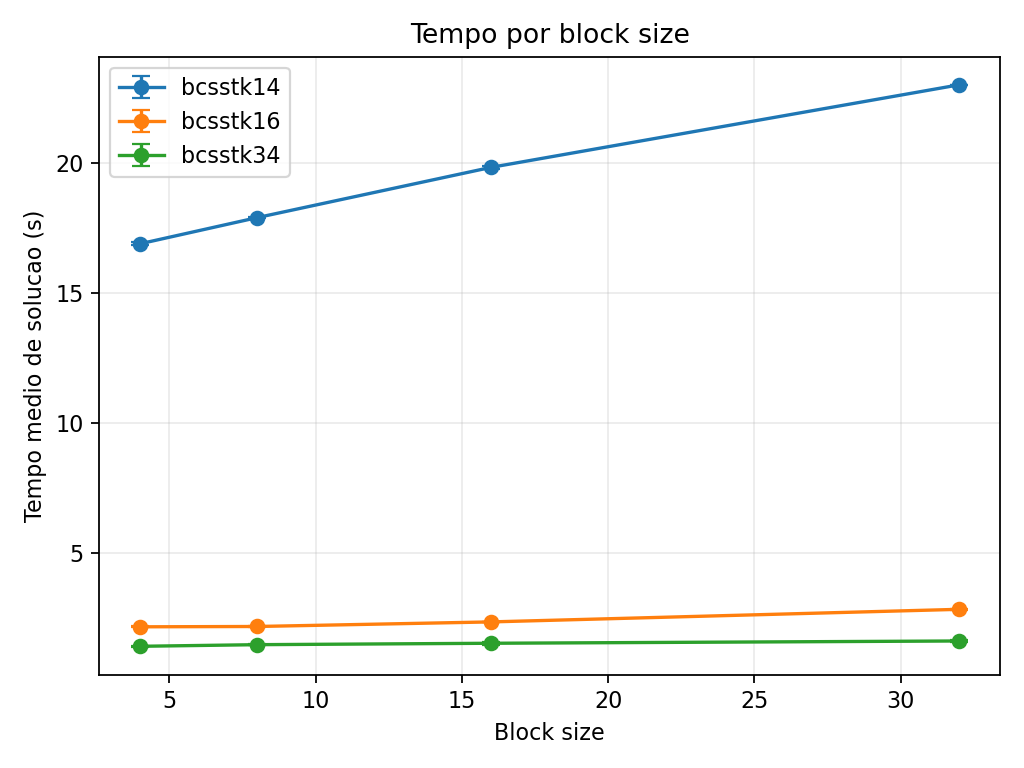
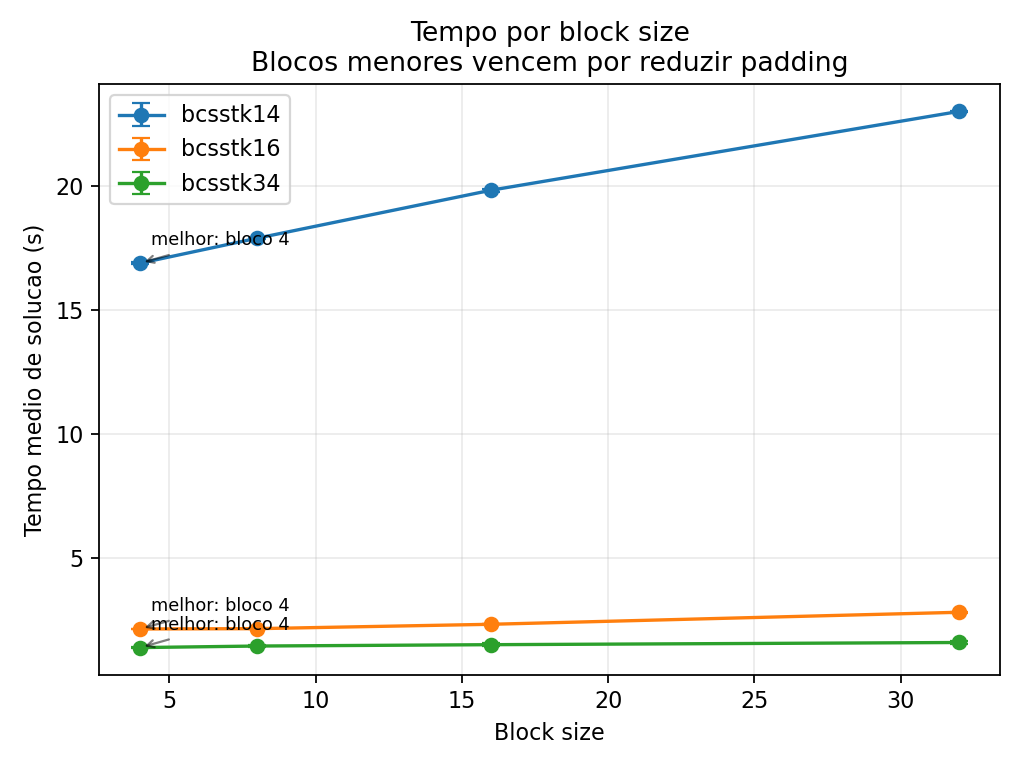
docs: explain experiment results in report

diff --git a/scripts/analyze_cg_results.py b/scripts/analyze_cg_results.py
@@ -68,9 +68,10 @@ with metrics_path.open("w", newline="") as stream:
         writer.writerow({field: (f"{row[field]:.9g}" if isinstance(row[field], float) else row[field]) for field in fields})
 
 base = [row for row in stats if row["family"] == "base"]
+fig, axis = plt.subplots()
 for matrix in sorted({row["matrix"] for row in base}):
     values = sorted((row for row in base if row["matrix"] == matrix), key=lambda row: row["block_size"])
-    plt.errorbar(
+    axis.errorbar(
         [row["block_size"] for row in values],
         [row["solve_mean_s"] for row in values],
         yerr=[row["solve_stddev_s"] for row in values],
@@ -78,34 +79,54 @@ for matrix in sorted({row["matrix"] for row in base}):
         capsize=4,
         label=matrix,
     )
-plt.xlabel("Block size")
-plt.ylabel("Tempo medio de solucao (s)")
-plt.title("Tempo por block size")
-plt.grid(alpha=0.25)
-plt.legend()
-plt.tight_layout()
-plt.savefig(plots_dir / "solve_time_by_block.png", dpi=160)
-plt.close()
+    best = min(values, key=lambda row: row["solve_mean_s"])
+    axis.annotate(
+        f"melhor: bloco {best['block_size']}",
+        (best["block_size"], best["solve_mean_s"]),
+        xytext=(5, 8),
+        textcoords="offset points",
+        fontsize=8,
+        arrowprops={"arrowstyle": "->", "alpha": 0.5},
+    )
+axis.set_xlabel("Block size")
+axis.set_ylabel("Tempo medio de solucao (s)")
+axis.set_title("Tempo por block size\nBlocos menores vencem por reduzir padding")
+axis.grid(alpha=0.25)
+axis.legend()
+fig.tight_layout()
+fig.savefig(plots_dir / "solve_time_by_block.png", dpi=160)
+plt.close(fig)
 
 strong = sorted((row for row in stats if row["family"] == "strong"), key=lambda row: row["mpi_processes"])
-plt.errorbar(
+fig, axis = plt.subplots()
+axis.errorbar(
     [row["mpi_processes"] for row in strong],
     [row["solve_mean_s"] for row in strong],
     yerr=[row["solve_stddev_s"] for row in strong],
     marker="o",
     capsize=4,
 )
-plt.xlabel("Processos MPI")
-plt.ylabel("Tempo medio de solucao (s)")
-plt.title("Strong scaling: bcsstk16, block 8")
-plt.grid(alpha=0.25)
-plt.tight_layout()
-plt.savefig(plots_dir / "strong_scaling_time.png", dpi=160)
-plt.close()
+axis.annotate(
+    "mais processos nao ajudam\n neste tamanho de matriz",
+    (strong[-1]["mpi_processes"], strong[-1]["solve_mean_s"]),
+    xytext=(-105, 20),
+    textcoords="offset points",
+    fontsize=8,
+    arrowprops={"arrowstyle": "->", "alpha": 0.5},
+)
+axis.set_xlabel("Processos MPI")
+axis.set_ylabel("Tempo medio de solucao (s)")
+axis.set_title("Strong scaling: bcsstk16, block 8\nA comunicacao supera o paralelismo")
+axis.grid(alpha=0.25)
+fig.tight_layout()
+fig.savefig(plots_dir / "strong_scaling_time.png", dpi=160)
+plt.close(fig)
 
 fig, axis = plt.subplots()
 axis.plot([row["mpi_processes"] for row in strong], [row["speedup"] for row in strong], "o-", label="Speedup")
 axis.plot([row["mpi_processes"] for row in strong], [row["efficiency"] for row in strong], "s-", label="Eficiencia")
+axis.plot([row["mpi_processes"] for row in strong], [row["mpi_processes"] for row in strong], "--", color="gray", label="Ideal")
+axis.annotate("speedup abaixo do ideal\n(overhead MPI)", (4, strong[-1]["speedup"]), xytext=(-110, -35), textcoords="offset points", fontsize=8, arrowprops={"arrowstyle": "->", "alpha": 0.5})
 axis.set_xlabel("Processos MPI")
 axis.set_ylabel("Fator")
 axis.set_title("Strong scaling: speedup e eficiencia")
@@ -120,6 +141,8 @@ hybrid = sorted((row for row in stats if row["family"] == "hybrid"), key=lambda 
 fig, axis = plt.subplots()
 axis.plot([row["omp_threads"] for row in hybrid], [row["speedup"] for row in hybrid], "o-", label="Speedup")
 axis.plot([row["omp_threads"] for row in hybrid], [row["efficiency"] for row in hybrid], "s-", label="Eficiencia")
+axis.plot([row["omp_threads"] for row in hybrid], [row["omp_threads"] for row in hybrid], "--", color="gray", label="Ideal")
+axis.annotate("ganho real: 1,447x\ncom 4 threads", (4, hybrid[-1]["speedup"]), xytext=(-105, 18), textcoords="offset points", fontsize=8, arrowprops={"arrowstyle": "->", "alpha": 0.5})
 axis.set_xlabel("Threads OpenMP")
 axis.set_ylabel("Fator")
 axis.set_title("Escala hibrida: speedup e eficiencia")
@@ -130,17 +153,20 @@ fig.tight_layout()
 fig.savefig(plots_dir / "hybrid_scaling_speedup_efficiency.png", dpi=160)
 plt.close(fig)
 
+fig, axis = plt.subplots()
 for matrix in sorted({row["matrix"] for row in base}):
     values = sorted((row for row in base if row["matrix"] == matrix), key=lambda row: row["block_size"])
-    plt.plot([row["block_size"] for row in values], [row["padding_overhead"] * 100 for row in values], "o-", label=matrix)
-plt.xlabel("Block size")
-plt.ylabel("Padding (%)")
-plt.title("Overhead de padding do Block ELLPACK")
-plt.grid(alpha=0.25)
-plt.legend()
-plt.tight_layout()
-plt.savefig(plots_dir / "padding_by_block.png", dpi=160)
-plt.close()
+    axis.plot([row["block_size"] for row in values], [row["padding_overhead"] * 100 for row in values], "o-", label=matrix)
+    lowest = min(values, key=lambda row: row["padding_overhead"])
+    axis.annotate(f"min {lowest['padding_overhead'] * 100:.1f}%", (lowest["block_size"], lowest["padding_overhead"] * 100), xytext=(5, 8), textcoords="offset points", fontsize=8)
+axis.set_xlabel("Block size")
+axis.set_ylabel("Padding (%)")
+axis.set_title("Overhead de padding do Block ELLPACK\nBlocos maiores preenchem mais zeros")
+axis.grid(alpha=0.25)
+axis.legend()
+fig.tight_layout()
+fig.savefig(plots_dir / "padding_by_block.png", dpi=160)
+plt.close(fig)
 
 print(f"{len(rows)} registros, {len(stats)} grupos, metricas em {metrics_path}")
 print(f"graficos em {plots_dir}")

diff --git a/report/report.md b/report/report.md
@@ -35,19 +35,179 @@ aproximadamente 1,8 GiB de memoria disponivel.
 O codigo foi compilado na imagem ARM64 com `mpicxx`, OpenMP e OpenBLAS. As
 operacoes vetoriais do CG sao implementadas diretamente em C++ com OpenMP.
 
-## Metodologia
+## Datasets e problema fisico
 
-Foram usadas as matrizes SuiteSparse preservadas no repositorio:
+Os dados usados neste trabalho sao matrizes de rigidez estrutural da UF Sparse
+Matrix Collection, atualmente conhecida como SuiteSparse Matrix Collection.
+Elas nao sao tabelas de observacoes ou imagens: sao modelos numericos
+resultantes de discretizacoes de estruturas de engenharia. Cada linha e cada
+coluna representa um grau de liberdade do modelo, e cada valor representa a
+interacao entre dois graus de liberdade.
+
+| Dataset | Problema original | Dimensao | Entradas no arquivo | `nnz` expandido | Densidade expandida |
+|---|---|---:|---:|---:|---:|
+| `bcsstk34` | Matriz de rigidez de um problema de flambagem NASTRAN da Boeing | 588 x 588 | 11.003 | 21.418 | 6,195% |
+| `bcsstk14` | Matriz de rigidez do teto do Omni Coliseum, Atlanta | 1.806 x 1.806 | 32.630 | 63.454 | 1,945% |
+| `bcsstk16` | Matriz de rigidez de uma barragem do Corps of Engineers | 4.884 x 4.884 | 147.631 | 290.378 | 1,217% |
+
+Os tres arquivos possuem cabecalho Matrix Market:
 
 ```text
-bcsstk34, bcsstk14, bcsstk16
+matrix coordinate real symmetric
 ```
 
-O estudo de Block ELLPACK usou blocos `4`, `8`, `16` e `32`, com dois
-processos MPI, uma thread OpenMP e tres repeticoes por configuracao. O estudo
-de strong scaling usou `bcsstk16`, bloco `8`, uma thread e `1`, `2` e `4`
-processos MPI. O estudo hibrido manteve dois processos MPI e variou entre
-`1`, `2` e `4` threads OpenMP.
+Isso significa que os valores sao reais, estao armazenados em coordenadas
+`(linha, coluna, valor)` e a matriz e simetrica. O arquivo armazena apenas a
+parte triangular. Durante a leitura, o programa expande cada entrada fora da
+diagonal:
+
+```text
+A[i][j] = valor
+A[j][i] = valor
+```
+
+A diagonal nao e duplicada. Por isso, a quantidade de entradas do arquivo
+original e menor que o `nnz` usado pelo solver depois da expansao. Essa
+expansao e necessaria para que o produto matriz-vetor represente a matriz
+completa usada pelo Gradiente Conjugado.
+
+O problema numerico resolvido e:
+
+```text
+A x = b
+```
+
+Para validar o solver, o projeto define uma solucao conhecida `x_true` como um
+vetor de uns e calcula:
+
+```text
+b = A x_true
+```
+
+O Gradiente Conjugado recebe `A` e `b` e tenta reconstruir `x_true`. Assim, os
+experimentos medem simultaneamente a corretude da solucao e o desempenho do
+processamento esparso. A baixa densidade das matrizes explica por que o
+produto matriz-vetor e limitado principalmente por acesso a memoria, e nao por
+operacoes aritmeticas.
+
+O `nnz` expandido indica quantas entradas reais existem na matriz completa. Ja
+o padding mostrado nos resultados e introduzido pelo formato Block ELLPACK:
+cada grupo de linhas reserva o mesmo numero de blocos, preenchendo posicoes
+ausentes com zeros. Portanto, o padding nao pertence ao dataset original; ele
+mede o custo adicional da representacao escolhida pelo projeto.
+
+As fontes originais sao:
+
+```text
+https://www.cise.ufl.edu/research/sparse/MM/Boeing/bcsstk34.tar.gz
+https://www.cise.ufl.edu/research/sparse/MM/HB/bcsstk14.tar.gz
+https://www.cise.ufl.edu/research/sparse/MM/HB/bcsstk16.tar.gz
+```
+
+## Metodologia
+
+### Dados de entrada e pipeline numerico
+
+Os experimentos nao operam sobre os nomes `bcsstk34`, `bcsstk14` e `bcsstk16`
+como se fossem categorias abstratas. Cada nome identifica um arquivo `.mtx`
+concreto, contendo uma matriz de rigidez estrutural real. O pipeline executado
+para cada arquivo foi:
+
+```text
+arquivo Matrix Market
+        |
+        v
+leitura das coordenadas (linha, coluna, valor)
+        |
+        v
+expansao da simetria A[i][j] = A[j][i]
+        |
+        v
+construcao do Block ELLPACK
+        |
+        v
+b = A * x_true, com x_true igual a vetor de uns
+        |
+        v
+particionamento das linhas entre processos MPI
+        |
+        v
+SpMV + produtos escalares + atualizacoes do CG
+```
+
+Cada linha e coluna da matriz representa um grau de liberdade do modelo
+estrutural. Os valores numericos sao coeficientes da matriz de rigidez; os
+zeros representam pares de graus de liberdade que nao possuem uma ligacao
+direta no modelo discretizado. Por isso, a matriz e grande e esparsa, e o
+principal nucleo computacional e o produto matriz-vetor esparso (SpMV).
+
+| Dataset | Aplicacao representada | Dimensao | Entradas lidas | `nnz` apos simetria | Densidade apos simetria |
+|---|---|---:|---:|---:|---:|
+| `bcsstk34` | Flambagem NASTRAN de uma estrutura Boeing | 588 x 588 | 11.003 | 21.418 | 6,195% |
+| `bcsstk14` | Rigidez do teto do Omni Coliseum, Atlanta | 1.806 x 1.806 | 32.630 | 63.454 | 1,945% |
+| `bcsstk16` | Rigidez de uma barragem do Corps of Engineers | 4.884 x 4.884 | 147.631 | 290.378 | 1,217% |
+
+`Entradas lidas` e a quantidade de coordenadas gravadas no arquivo triangular
+original. Como o cabecalho declara `symmetric`, o parser cria a entrada
+espelhada para cada elemento fora da diagonal. A diagonal e inserida uma unica
+vez. O `nnz` apos simetria e a quantidade efetivamente usada pelo solver.
+
+Depois da leitura, as entradas sao agrupadas em blocos quadrados de tamanho
+fixo. Para cada grupo de linhas, o Block ELLPACK reserva o mesmo numero de
+blocos de colunas. Quando uma linha nao possui uma entrada para uma posicao
+reservada, a posicao recebe zero de padding. Esse padding nao esta no dataset
+original: ele e o custo da estrutura de dados escolhida para tentar melhorar a
+regularidade do acesso durante o SpMV.
+
+O vetor `b` nao vem de um arquivo externo. Ele e gerado de forma controlada
+para que exista uma resposta conhecida:
+
+```text
+x_true = [1, 1, ..., 1]
+b = A * x_true
+x_0 = [0, 0, ..., 0]
+```
+
+O Gradiente Conjugado recebe `A` e `b`, inicia com `x_0` e tenta recuperar
+`x_true`. Assim, o experimento mede duas coisas ao mesmo tempo: se a
+implementacao paralela calcula a resposta correta e quanto tempo ela leva.
+
+### Configuracoes experimentais
+
+O estudo foi dividido em tres familias. Todas as configuracoes tiveram tres
+repeticoes, usando a mesma tolerancia `1e-8` e o mesmo limite de `10000`
+iteracoes.
+
+**Estudo do Block ELLPACK:** para cada uma das tres matrizes, foram usados
+block sizes `4`, `8`, `16` e `32`, com dois processos MPI e uma thread OpenMP
+por processo. Isso produz:
+
+```text
+3 matrizes x 4 block sizes x 3 repeticoes = 36 execucoes
+```
+
+**Strong scaling MPI:** foi usada `bcsstk16` com block size `8` e uma thread
+OpenMP por processo. O numero de processos MPI foi `1`, `2` e `4`, com tres
+repeticoes por ponto:
+
+```text
+3 configuracoes MPI x 3 repeticoes = 9 execucoes
+```
+
+**Escala hibrida MPI/OpenMP:** foi usada `bcsstk16` com block size `8` e dois
+processos MPI. O numero de threads OpenMP foi `1`, `2` e `4`, novamente com
+tres repeticoes:
+
+```text
+3 configuracoes OpenMP x 3 repeticoes = 9 execucoes
+```
+
+No total, a campanha possui `36 + 9 + 9 = 54` execucoes.
+
+Em cada processo MPI, o vetor global necessario ao SpMV e formado por
+`MPI_Allgatherv`. Os produtos escalares do CG usam `MPI_Allreduce`. Dentro de
+cada processo, o SpMV, os produtos escalares e as atualizacoes dos vetores
+`x`, `r` e `p` usam OpenMP com `schedule(static)`.
 
 O speedup foi calculado por:
 
@@ -127,13 +287,41 @@ matriz.
 
 ![Tempo por block size](../results/plots/tvbox/solve_time_by_block.png)
 
+**Historia do grafico:** o bloco 4 foi o melhor para as tres matrizes. Ao
+aumentar o bloco, o formato passa a reservar mais posicoes que nao existem na
+matriz original. O resultado e mais trabalho no SpMV e mais movimentacao de
+memoria, especialmente em `bcsstk14`.
+
 ![Strong scaling](../results/plots/tvbox/strong_scaling_time.png)
+
+**Historia do grafico:** aumentar de 1 para 2 e 4 processos MPI nao reduziu o
+tempo neste problema. Cada iteracao precisa reunir `p` com `MPI_Allgatherv` e
+sincronizar produtos escalares com `MPI_Allreduce`. Para `bcsstk16`, esse custo
+de comunicacao foi maior que o ganho do processamento paralelo.
 
 ![Speedup e eficiencia MPI](../results/plots/tvbox/strong_scaling_speedup_efficiency.png)
 
+**Historia do grafico:** a linha ideal subiria proporcionalmente ao numero de
+processos. A curva medida fica abaixo de 1 a partir de dois processos, e a
+eficiencia cai para `0,230` com quatro processos. Isso mostra que adicionar
+processos nao e automaticamente uma aceleracao: o tamanho da matriz e a
+frequencia das sincronizacoes dominam o tempo.
+
 ![Speedup e eficiencia OpenMP](../results/plots/tvbox/hybrid_scaling_speedup_efficiency.png)
 
+**Historia do grafico:** dentro de cada processo, OpenMP foi mais efetivo que
+a escala MPI neste caso. Duas threads produziram speedup de `1,299x` e quatro
+threads chegaram a `1,447x`. A eficiencia, porem, caiu para `0,362`, porque as
+threads compartilham largura de banda e o problema nao possui trabalho
+suficiente para escalar idealmente.
+
 ![Padding Block ELLPACK](../results/plots/tvbox/padding_by_block.png)
+
+**Historia do grafico:** o padding cresce com o tamanho do bloco em todas as
+matrizes. Em `bcsstk16`, por exemplo, ele vai de `56,28%` no bloco 4 para
+`83,15%` no bloco 32. Esses zeros nao pertencem ao problema estrutural; sao
+espaco adicional introduzido pelo formato Block ELLPACK para manter acesso
+regular.
 
 ### Custos observados
 
